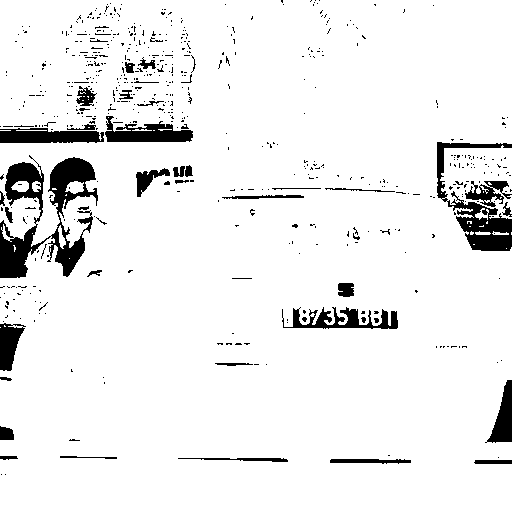
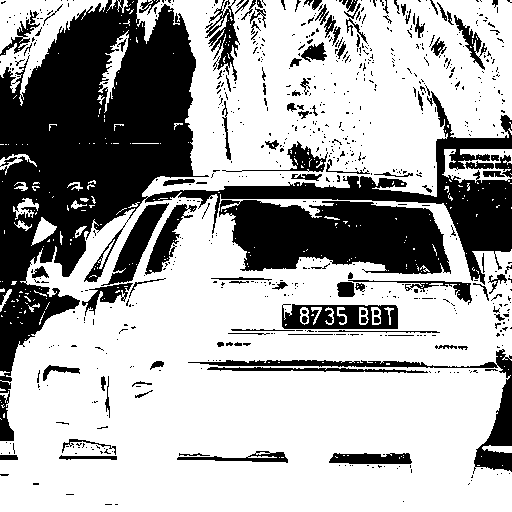
codigo python hasta detectar el contorno de la misma

diff --git a/code/DetectorMatriculas.py b/code/DetectorMatriculas.py
@@ -1,0 +1,109 @@
+import numpy as np
+import cv2
+import matplotlib.pyplot as plt
+import pytesseract
+import skimage
+pytesseract.pytesseract.tesseract_cmd = 'C:/Program Files (x86)/Tesseract-OCR/tesseract.exe'
+
+class DetectorMatriculas:
+    def __init__(self):
+        self.ratio = 520/110 # Dimensiones matricula europea
+        self.min_w = 64
+        self.max_w = 256
+        self.min_h = 16
+        self.max_h = 64
+    
+    # Muestra una imagen cualquiera
+    def mostrarImagen(self, img):
+        cv2.imshow('Imagen',img)
+        cv2.waitKey(0)
+        cv2.destroyAllWindows()
+
+    # Muestra los 3 canales de color de una imagen
+    def mostrarRGB(self, img):
+        if not(len(img.shape) == 3 and img.shape[2] == 3):
+            raise ValueError('La imagen no contiene 3 canales de color')
+        
+        # Canal 0: Azul, canal 1: Verde, canal 2: Rojo
+        azul = img.copy()
+        azul[:, :, 1] = 0  # Eliminar el canal verde
+        azul[:, :, 2] = 0  # Eliminar el canal rojo
+        
+        verde = img.copy()
+        verde[:, :, 0] = 0  # Eliminar el canal azul
+        verde[:, :, 2] = 0  # Eliminar el canal rojo
+        
+        rojo = img.copy()
+        rojo[:, :, 0] = 0  # Eliminar el canal azul
+        rojo[:, :, 1] = 0  # Eliminar el canal verde
+
+        
+        fig, axes = plt.subplots(1, 3, figsize=(15, 5))
+        axes[0].imshow(cv2.cvtColor(rojo, cv2.COLOR_BGR2RGB))
+        axes[0].set_title('Canal Rojo')
+        axes[0].axis('off')
+        
+        axes[1].imshow(cv2.cvtColor(verde, cv2.COLOR_BGR2RGB))
+        axes[1].set_title('Canal Verde')
+        axes[1].axis('off')
+        
+        axes[2].imshow(cv2.cvtColor(azul, cv2.COLOR_BGR2RGB))
+        axes[2].set_title('Canal Azul')
+        axes[2].axis('off')
+        
+        plt.show()
+
+    # Convertir la imagen a escala de grises
+    def toEscalaDeGrises(self, img):
+        img_gray = cv2.cvtColor(img, cv2.COLOR_BGR2GRAY)
+        return img_gray
+    
+    # Umbrealizar una imagen con un valor de referencia
+    def aplicarUmbrealizacion(self, img, value):
+        return cv2.threshold(img, value, 255, cv2.THRESH_BINARY_INV)[1]
+    
+    # Umbrealizar una imagen con un valor de referencia
+    def aplicarUmbrealizacionAdaptativa(self, img):
+        return cv2.adaptiveThreshold(img, 255, cv2.ADAPTIVE_THRESH_MEAN_C, cv2.THRESH_BINARY_INV, 7, 13)
+    
+    def encontrarContornos(self, img):
+        return cv2.findContours(img, cv2.RETR_LIST, cv2.CHAIN_APPROX_SIMPLE)[0]
+    
+    def mostrarContornos(self, img, contornos):
+        canvas = np.zeros_like(img)
+        cv2.drawContours(canvas, contornos, -1, (0, 255, 0), 2)
+        plt.axis('off')
+        plt.imshow(canvas)
+        plt.show()
+
+    def filtrarCandidatos(self, contornos):
+        candidatos = []
+        for c in contornos:
+            x, y, w, h = cv2.boundingRect(c)
+            aspect_ratio = float(w) / h
+            if (np.isclose(aspect_ratio, self.ratio, atol=0.7) and
+               (self.max_w > w > self.min_w) and
+               (self.max_h > h > self.min_h)):
+                candidatos.append(c)
+        return candidatos
+    
+    def mostrarCandidatos(self, img, candidatos):
+        canvas = np.zeros_like(img)
+        cv2.drawContours(canvas, candidatos, -1, (0, 255, 0), 2)
+        plt.axis('off')
+        plt.imshow(canvas)
+        plt.show()
+
+    def filtrarMenorCandidato(self, candidatos):
+        ys = []
+        for c in candidatos:
+            x, y, w, h = cv2.boundingRect(c)
+            ys.append(y)
+        return candidatos[np.argmax(ys)]
+    
+    def mostrarMenorCandidato(self, img, candidato):
+        canvas = np.zeros_like(img)
+        cv2.drawContours(canvas, [candidato], -1, (0, 255, 0), 2)
+        plt.axis('off')
+        plt.imshow(canvas)
+        plt.show()

diff --git a/code/main.py b/code/main.py
@@ -1,104 +1,28 @@
-import numpy as py #pip install numpy
+import numpy as np #pip install numpy
 import cv2 #pip install opencv-python
 import matplotlib.pyplot as plt #pip install matplotlib
 import pytesseract #pip install pytesseract
 import skimage #python -m pip install scikit-image
+import DetectorMatriculas as DM
 
-def divideColor(img):
-        if not(len(img.shape) == 3 and img.shape[2] == 3):
-            raise ValueError('La imagen no contiene 3 canales de color')
-        
-        #Canal 0: Azul, canal 1: Verde, canal 2: Rojo
-        azul = img.copy()
-        azul[:, :, 1] = 0  # Eliminar el canal verde
-        azul[:, :, 2] = 0  # Eliminar el canal rojo
-        
-        verde = img.copy()
-        verde[:, :, 0] = 0  # Eliminar el canal azul
-        verde[:, :, 2] = 0  # Eliminar el canal rojo
-        
-        rojo = img.copy()
-        rojo[:, :, 0] = 0  # Eliminar el canal azul
-        rojo[:, :, 1] = 0  # Eliminar el canal verde
-        
-        # Mostrar las imágenes resultantes
-        cv2.imshow('Canal Rojo', rojo)
-        cv2.imshow('Canal Verde', verde)
-        cv2.imshow('Canal Azul', azul)
-        cv2.imwrite('./images/coche1_rojo.png', rojo)
-        cv2.imwrite('./images/coche1_verde.png', verde)
-        cv2.imwrite('./images/coche1_azul.png', azul)
-
-        cv2.waitKey(0)
-        cv2.destroyAllWindows()
-
-def plot_image(img, grayscale=True):
-    plt.axis('off')
-    if grayscale:
-        plt.imshow(img, cmap='gray')
-    else:
-        plt.imshow(cv2.cvtColor(img, cv2.COLOR_BGR2RGB))
-    plt.show()
-
-def img_to_BYN(img):
-    # Convertir la imagen a escala de grises
-    img_gray = cv2.cvtColor(img, cv2.COLOR_BGR2GRAY)
-    return img_gray
-
-def umbralizacion(img):
-    thresh = cv2.threshold(img, 170, 255, cv2.THRESH_BINARY_INV)[1]
-    return thresh
-
-def detectarFormas(img):
-    contours = cv2.findContours(img, cv2.RETR_LIST, cv2.CHAIN_APPROX_SIMPLE)[0]
-    return contours
-
-def filtrarFormas(contours):
-    proporcion_matricula = 520/110
-    min_w = 80
-    max_w = 110
-    min_h = 25
-    max_h = 52
-
-    candidatos = []
-    for contador in contours:
-        x, y, w, h = cv2.boundingRect(contador)
-        proporcion_de_aspecto = float(w) / h
-        if(py.isclose(proporcion_de_aspecto, proporcion_matricula, atol=0.7) and (max_w > w > min_w) and (max_h > h > min_h)):
-            candidatos.append(contador)
-
-    return candidatos
-
-
-img = cv2.imread("./dataset/coche1.png")
+dm = DM.DetectorMatriculas()
+img = img = cv2.imread("./dataset/coche1.png")
 print(img.shape)
+dm.mostrarImagen(img)
 
-# divideColor(img)
+dm.mostrarRGB(img)
 
-gray = img_to_BYN(img)
-print(gray.shape)
-cv2.imshow('Escala de grises', gray)
-cv2.imwrite('./images/coche1_gray.png', gray)
-cv2.waitKey(0)
-cv2.destroyAllWindows()
+imgBW = dm.toEscalaDeGrises(img)
+dm.mostrarImagen(imgBW)
 
+imgBIN = dm.aplicarUmbrealizacionAdaptativa(imgBW)
+dm.mostrarImagen(imgBIN)
 
-thresh = umbralizacion(gray)
-cv2.imshow('Imagen umbralizada',thresh)
-cv2.imwrite('./images/coche1_umbral.png', thresh)
-cv2.waitKey(0)
-cv2.destroyAllWindows()
+contornos = dm.encontrarContornos(imgBIN)
+dm.mostrarContornos(img, contornos)
 
-contornos = detectarFormas(thresh)
-canvas = py.zeros_like(img)
-cv2.drawContours(canvas, contornos, -1, (0, 255, 0), 2)
-plt.axis('off')
-plt.imshow(canvas)
+candidatos = dm.filtrarCandidatos(contornos)
+dm.mostrarCandidatos(img, candidatos)
 
-candidatos = filtrarFormas(contornos)
-canvas = py.zeros_like(img)
-cv2.drawContours(canvas, candidatos, -1, (0, 255, 0), 2)
-plt.axis('off')
-plt.imshow(canvas)
-
-
+candidatoMenor = dm.filtrarMenorCandidato(candidatos)
+dm.mostrarMenorCandidato(img, candidatoMenor)
